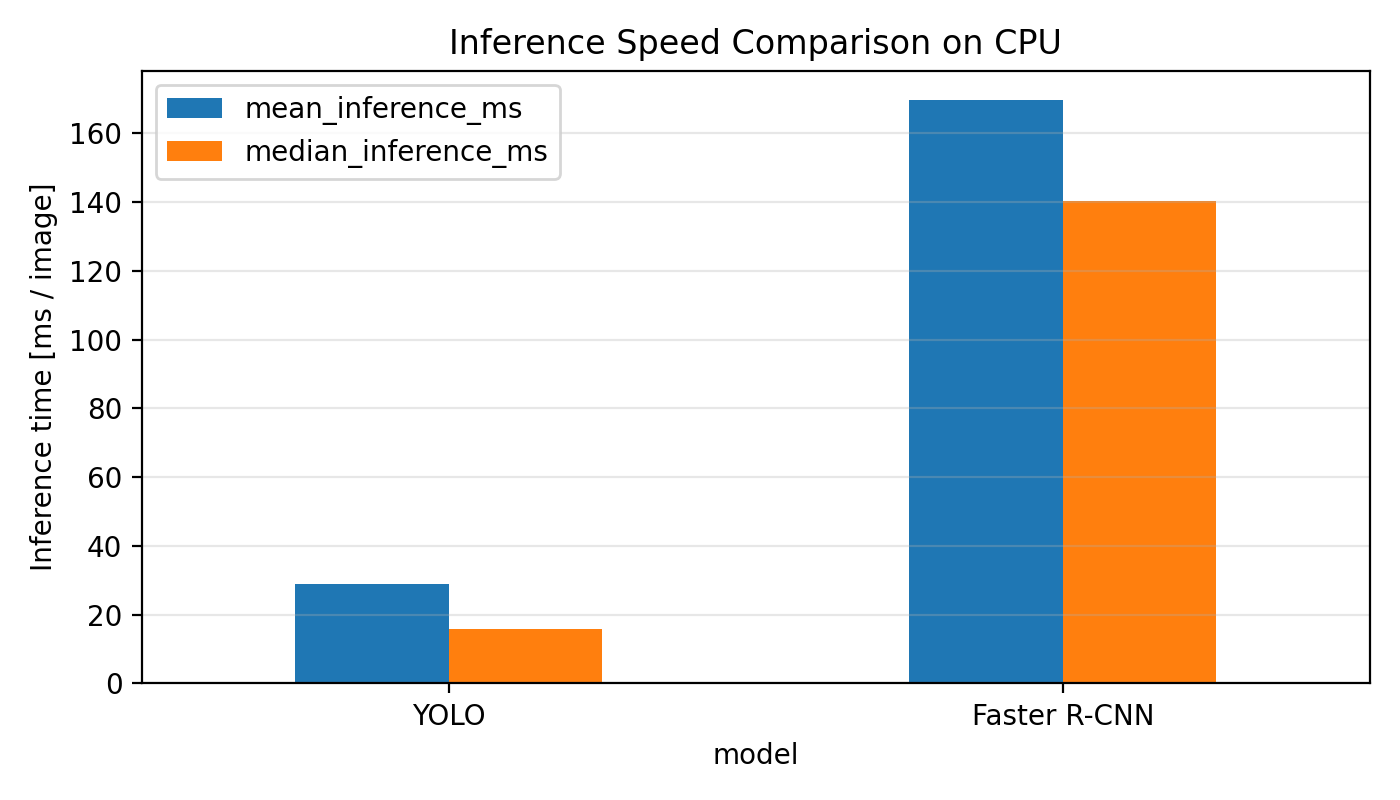
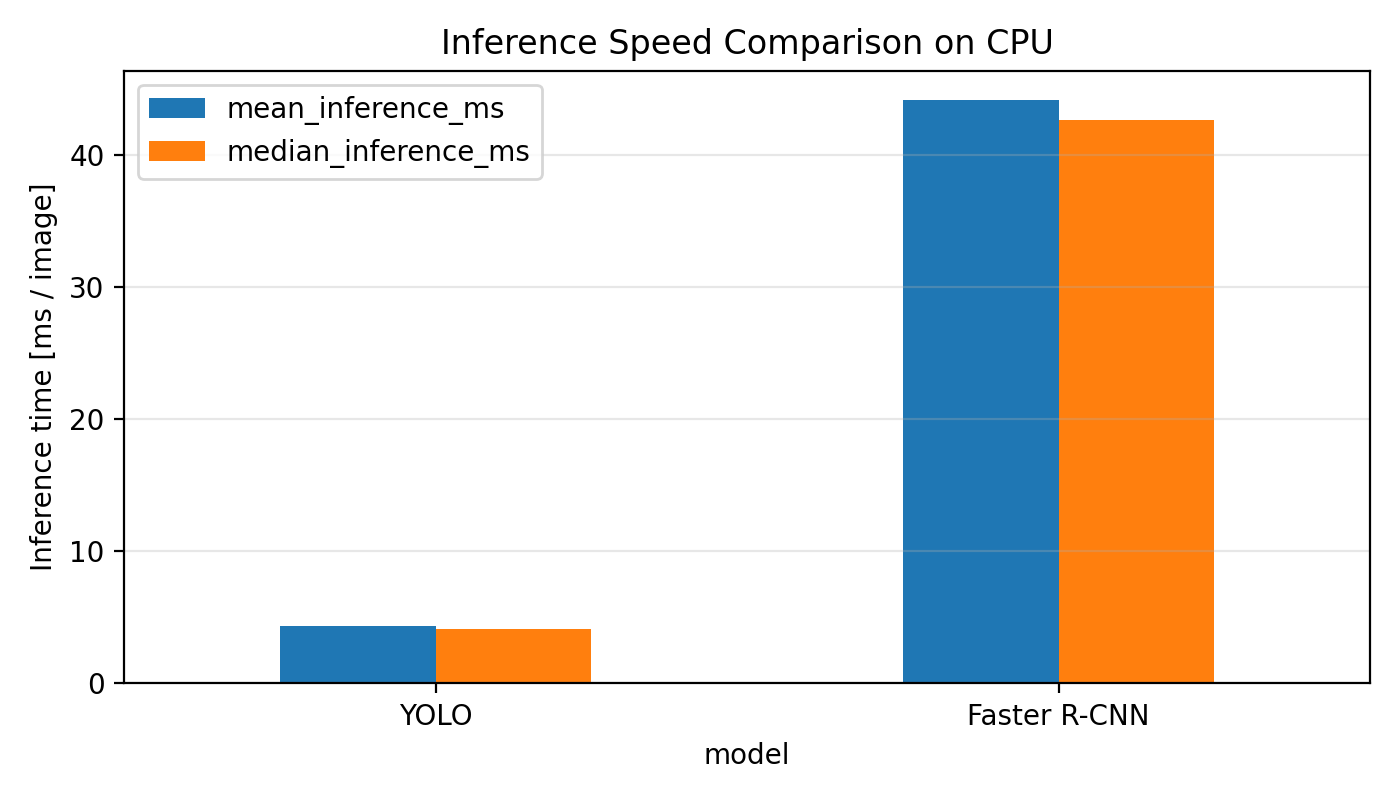
Updated the readme

diff --git a/README.md b/README.md
@@ -61,7 +61,7 @@ pip install torch torchvision
 You can check out the reproduce_results.ipynb file in notebooks to load the models and look at the result without training the models. This file should run the current models and produce the tables and figures.
 ---
 ### Get the data
-If you want to train the model yourself and try to replicate this project you will need to first download the data from the following github (The data is large so it is excluded from the repo):
+If you want to train the model yourself and try to replicate this project you will need to first download the data from the following github (or check it out under data/):
 ```text
 https://github.com/f1tenth-cmu/f1tenth_lab8/tree/main
 ```
@@ -87,7 +87,7 @@ notebooks/fasterrcnn_f110_project.ipynb
 This should give you the following YOLO model files:
 ```text
 notebooks/loss_[# of epochs].npy
-notebooks/model_[# of epochs].npy
+notebooks/model_[# of epochs].pt
 ```
 and the following files for the faster R-CNN:
 ```text